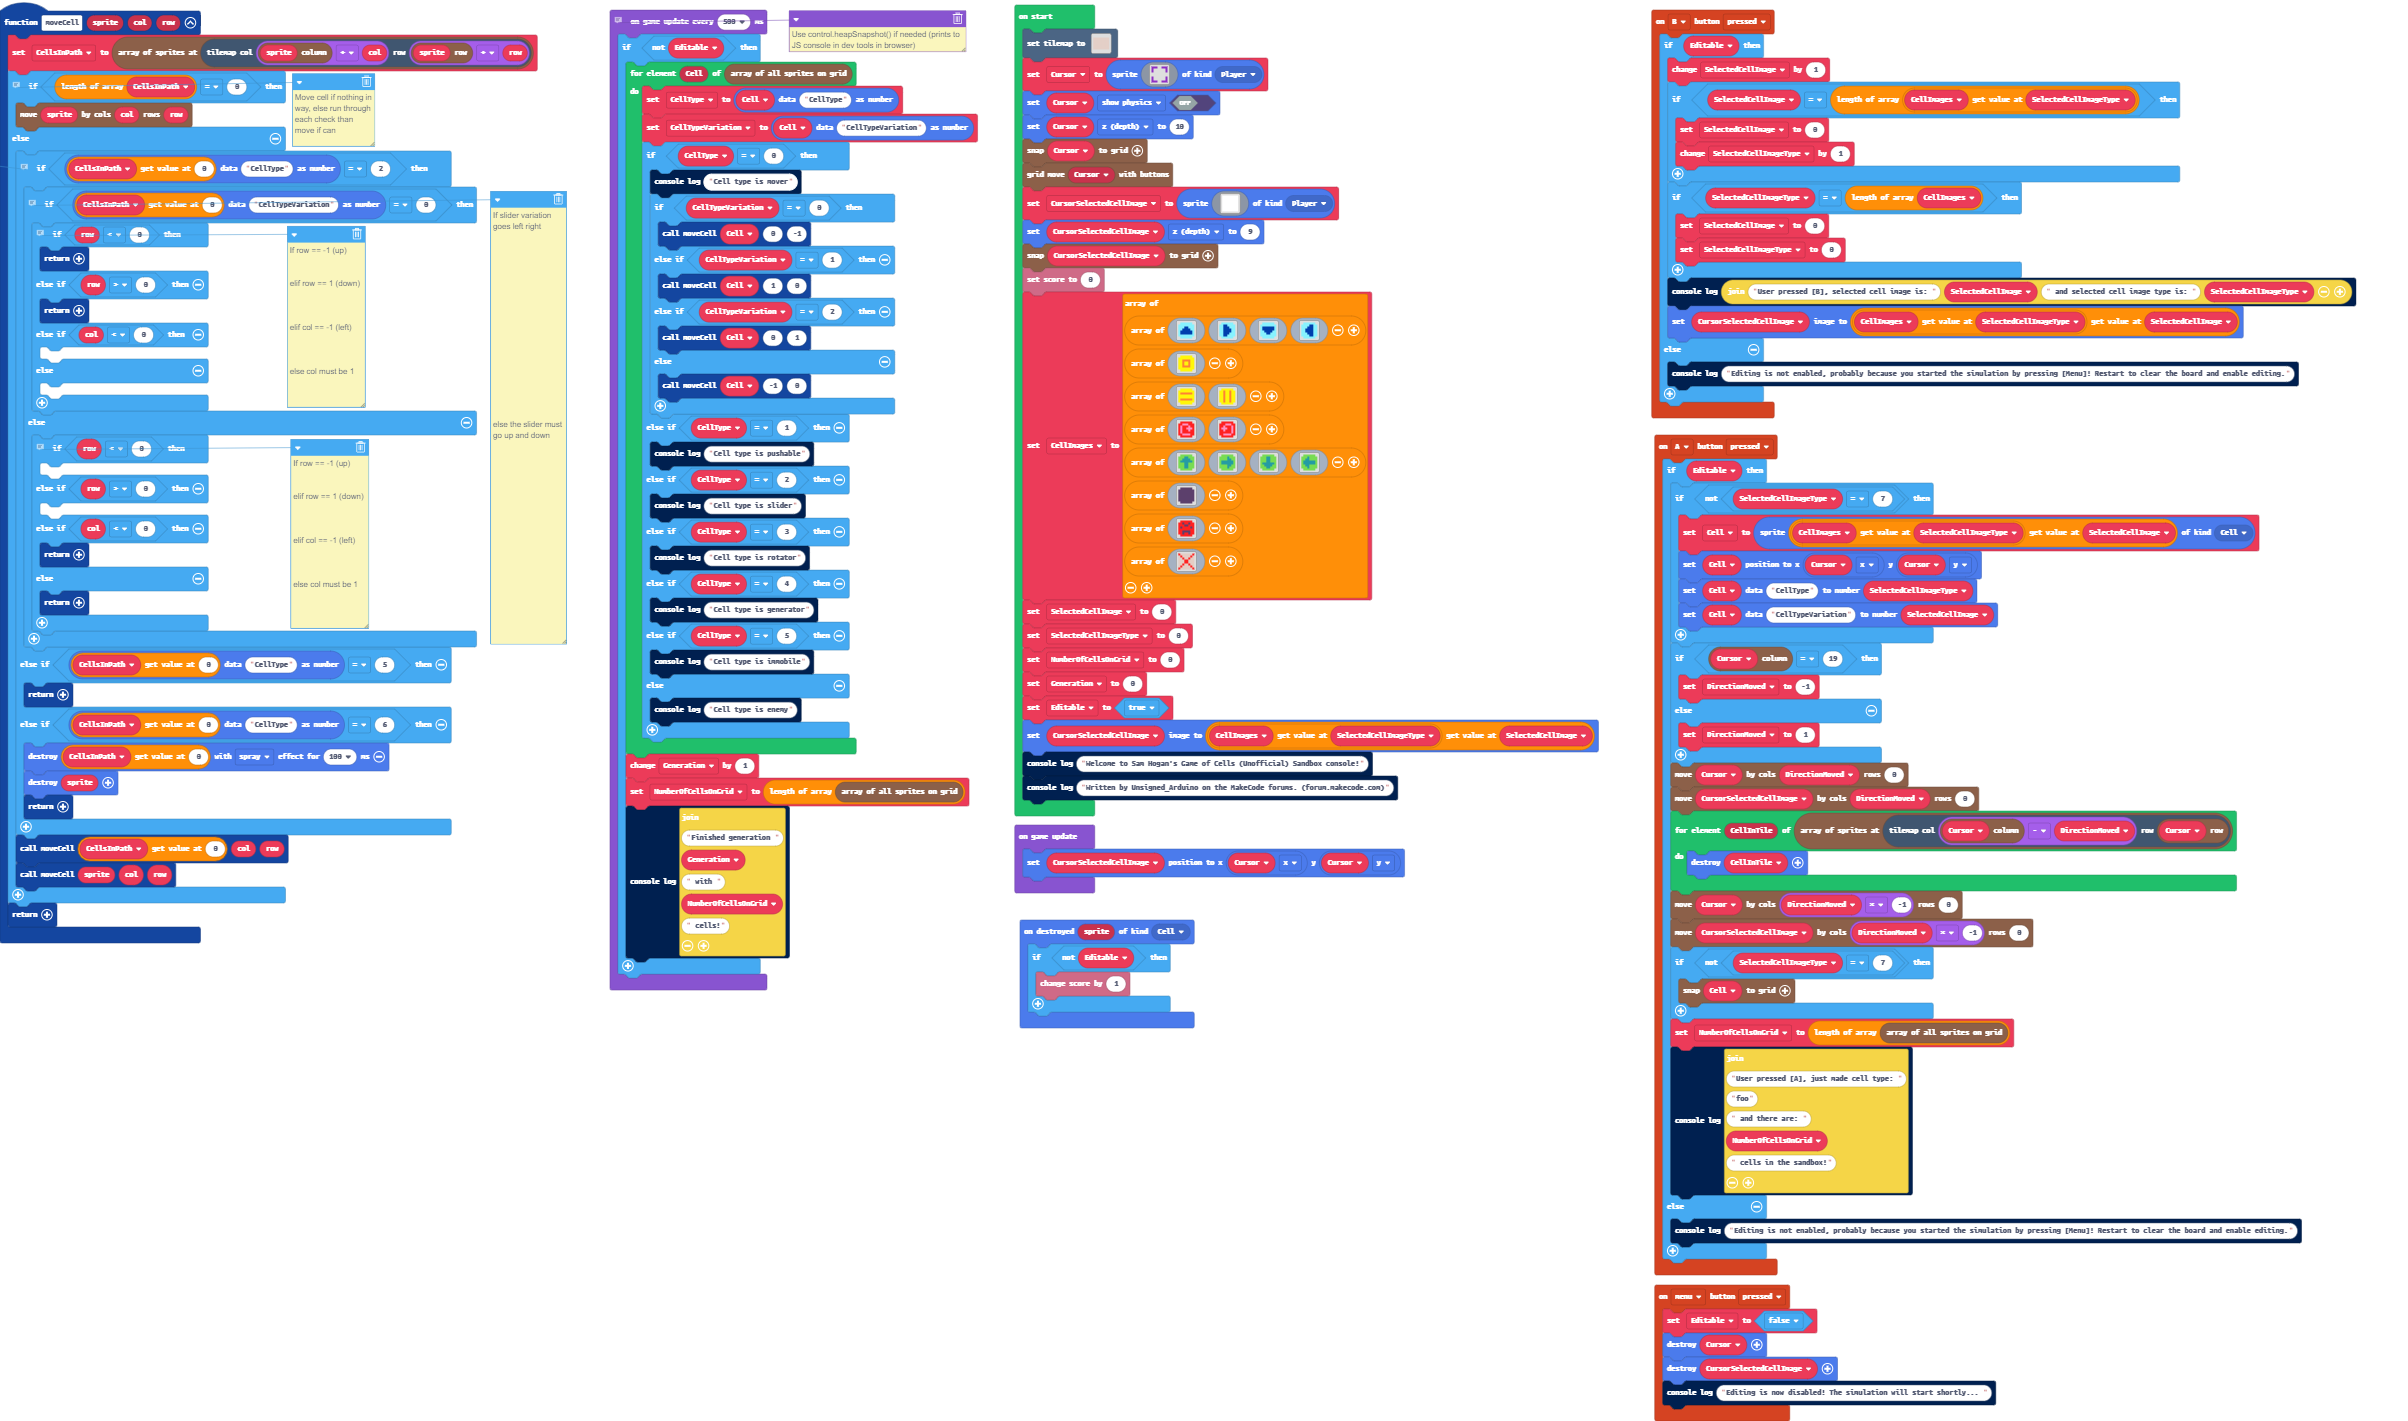
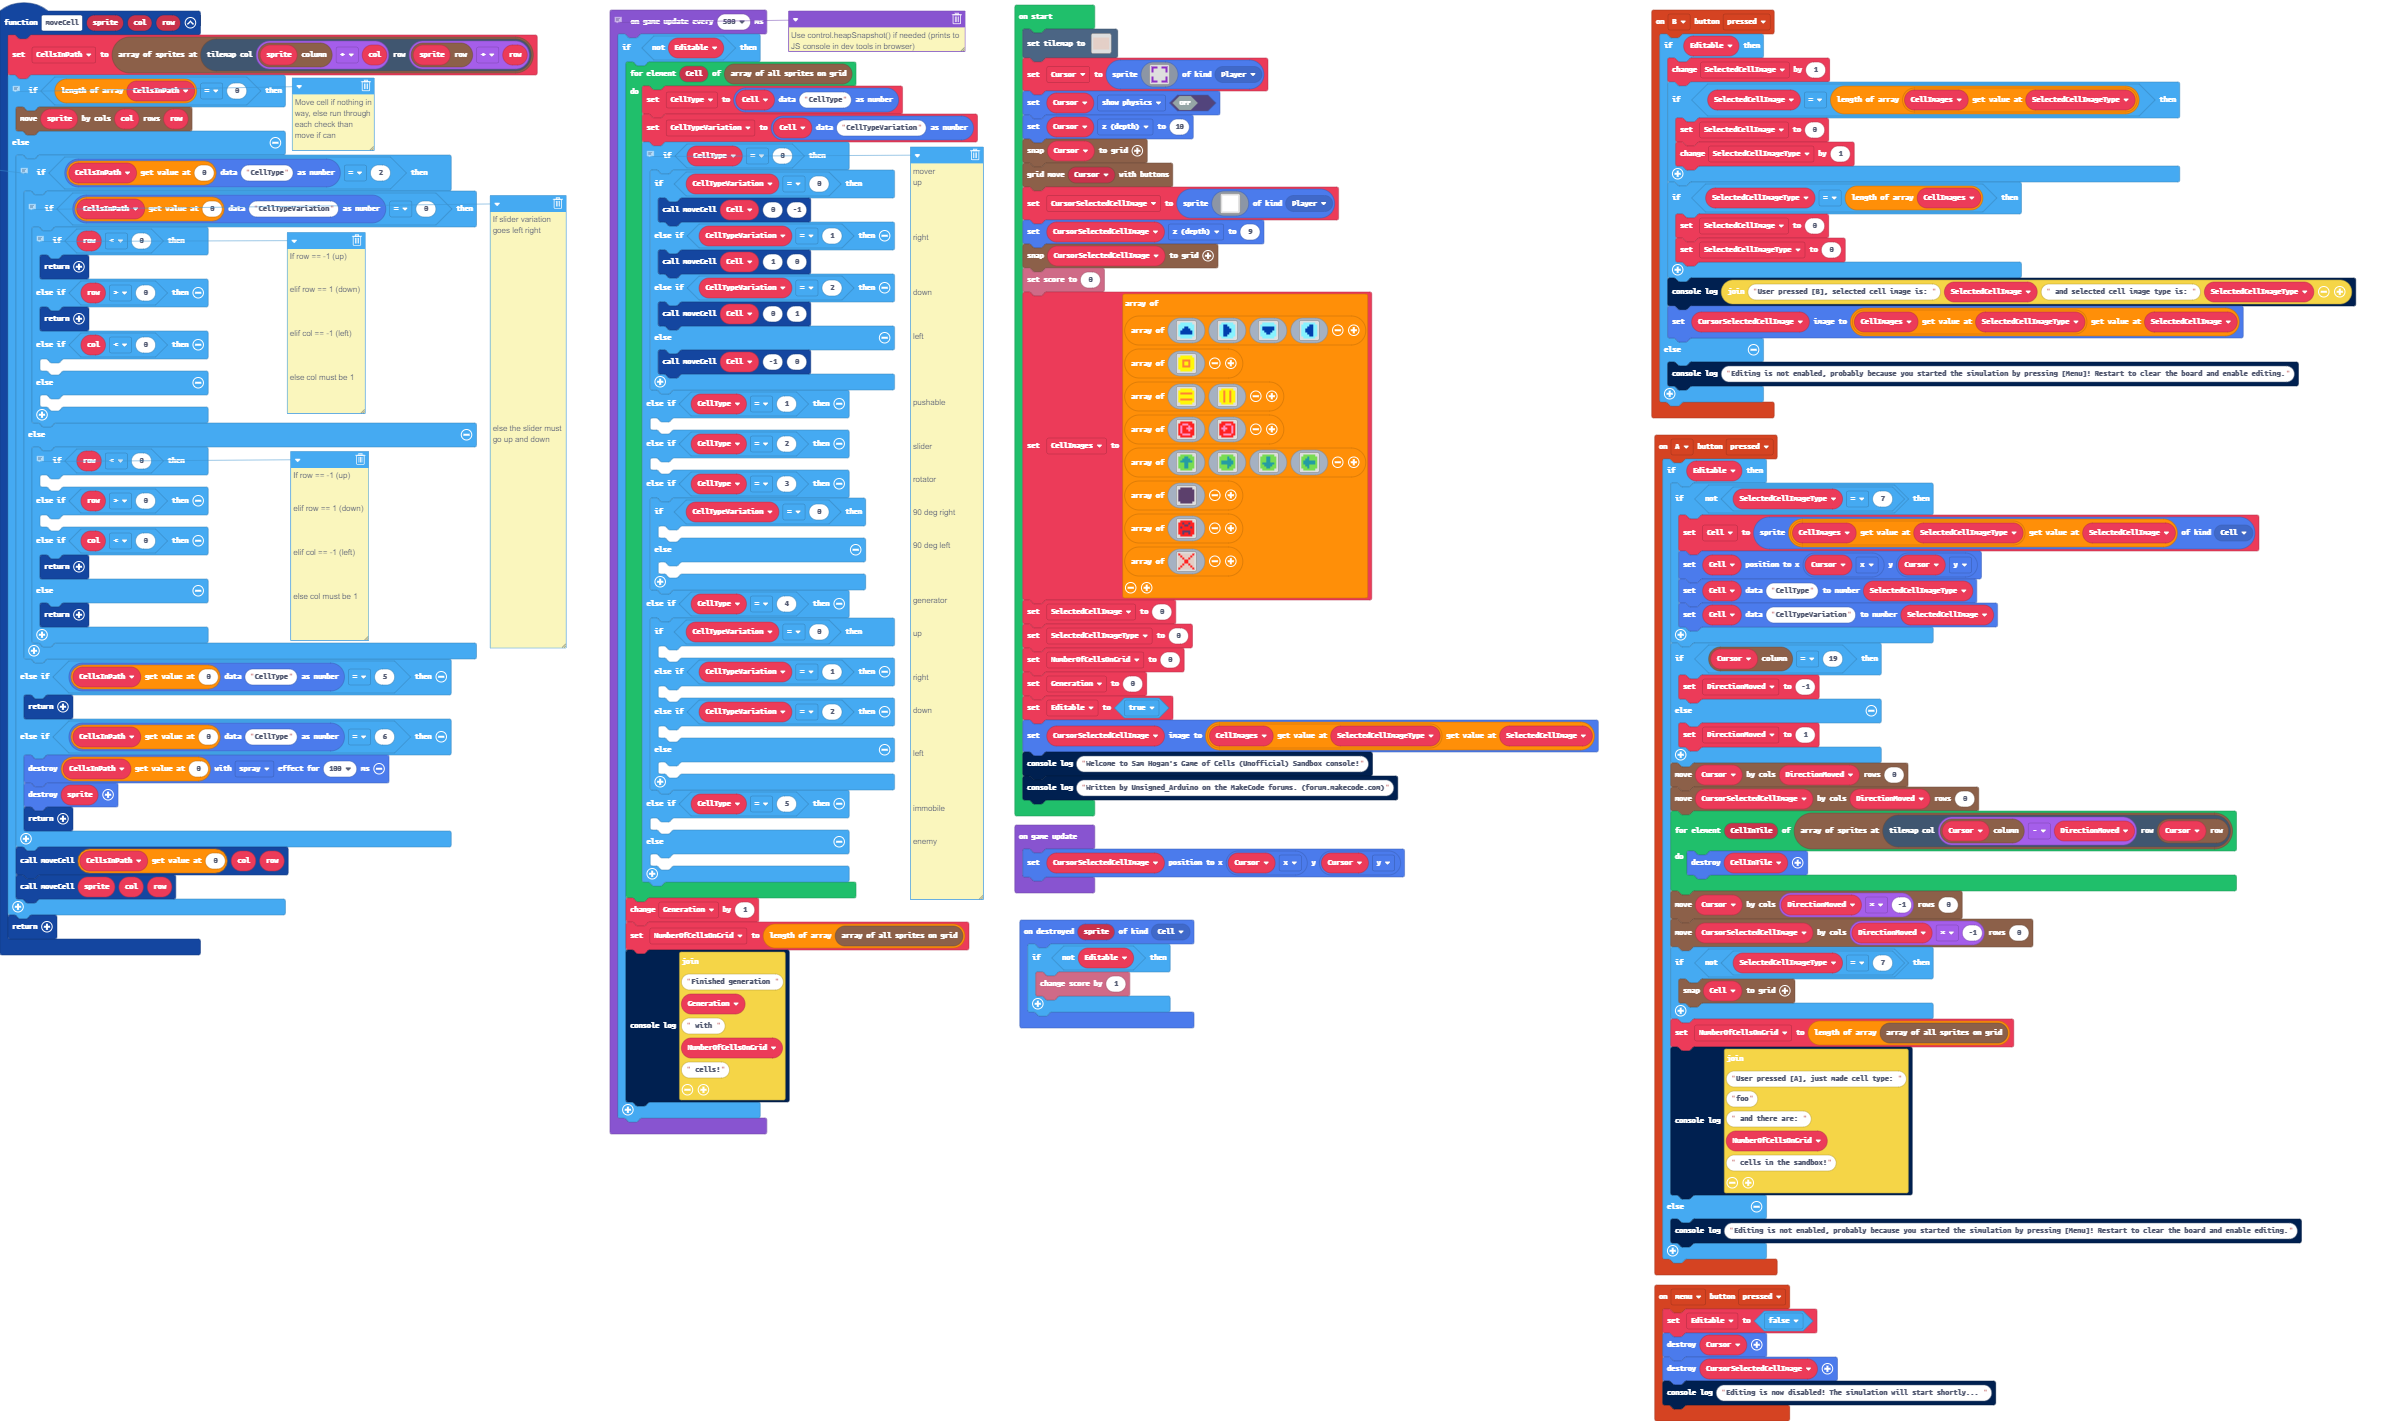
Finished framework for rest of cells

Changed region(s): [[0.0, 0.031, 0.436, 0.8051], [0.3426, 0.0, 0.4049, 0.0619]]

diff --git a/main.ts b/main.ts
@@ -427,8 +427,69 @@ game.onUpdateInterval(500, function () {
         for (let Cell of grid.allSprites()) {
             CellType = sprites.readDataNumber(Cell, "CellType")
             CellTypeVariation = sprites.readDataNumber(Cell, "CellTypeVariation")
+            // mover
+            // up
+            // 
+            // 
+            // 
+            // 
+            // right
+            // 
+            // 
+            // 
+            // 
+            // down
+            // 
+            // 
+            // 
+            // left
+            // 
+            // 
+            // 
+            // 
+            // 
+            // pushable
+            // 
+            // 
+            // 
+            // slider
+            // 
+            // 
+            // rotator
+            // 
+            // 
+            // 90 deg right
+            // 
+            // 
+            // 90 deg left
+            // 
+            // 
+            // 
+            // 
+            // generator
+            // 
+            // 
+            // up
+            // 
+            // 
+            // 
+            // right
+            // 
+            // 
+            // down
+            // 
+            // 
+            // 
+            // left
+            // 
+            // 
+            // 
+            // 
+            // immobile
+            // 
+            // 
+            // enemy
             if (CellType == 0) {
-                console.log("Cell type is mover")
                 if (CellTypeVariation == 0) {
                     moveCell(Cell, 0, -1)
                 } else if (CellTypeVariation == 1) {
@@ -439,17 +500,29 @@ game.onUpdateInterval(500, function () {
                     moveCell(Cell, -1, 0)
                 }
             } else if (CellType == 1) {
-                console.log("Cell type is pushable")
+            	
             } else if (CellType == 2) {
-                console.log("Cell type is slider")
+            	
             } else if (CellType == 3) {
-                console.log("Cell type is rotator")
+                if (CellTypeVariation == 0) {
+                	
+                } else {
+                	
+                }
             } else if (CellType == 4) {
-                console.log("Cell type is generator")
+                if (CellTypeVariation == 0) {
+                	
+                } else if (CellTypeVariation == 1) {
+                	
+                } else if (CellTypeVariation == 2) {
+                	
+                } else {
+                	
+                }
             } else if (CellType == 5) {
-                console.log("Cell type is immobile")
+            	
             } else {
-                console.log("Cell type is enemy")
+            	
             }
         }
         Generation += 1
